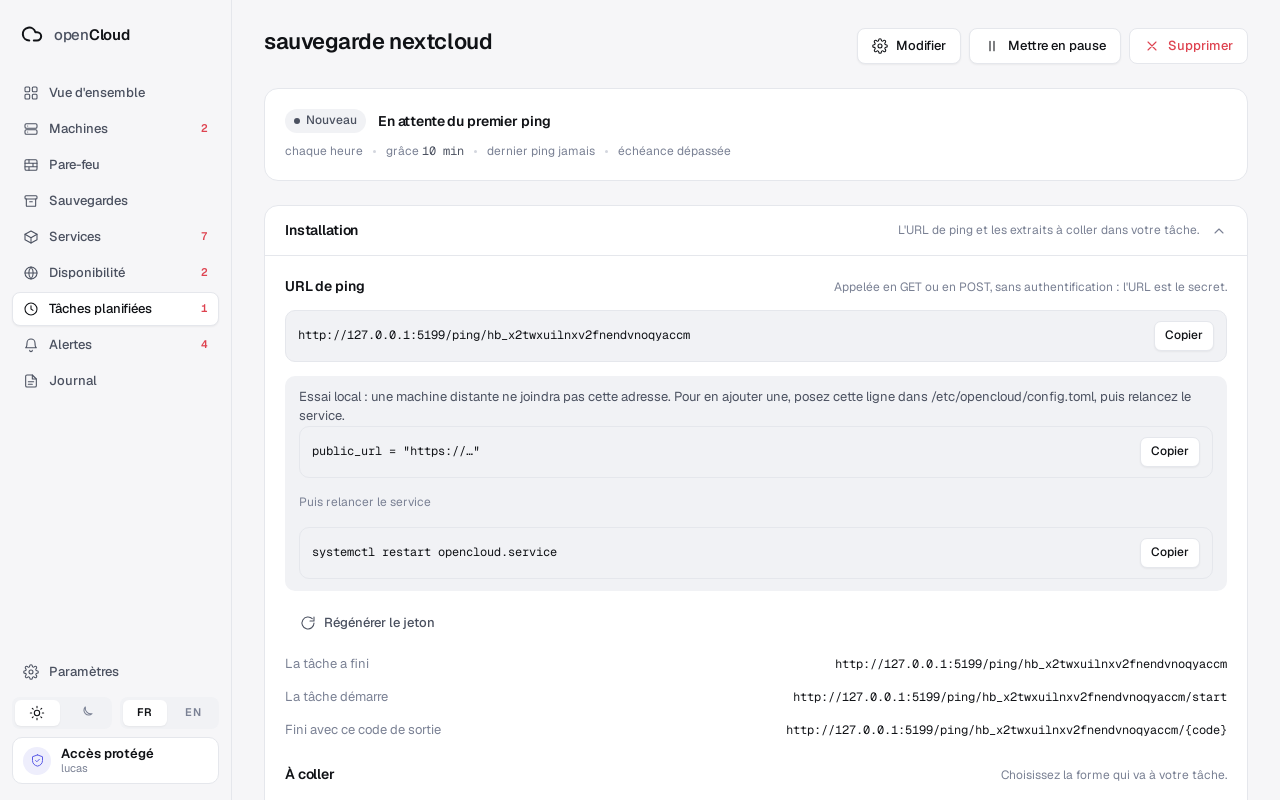
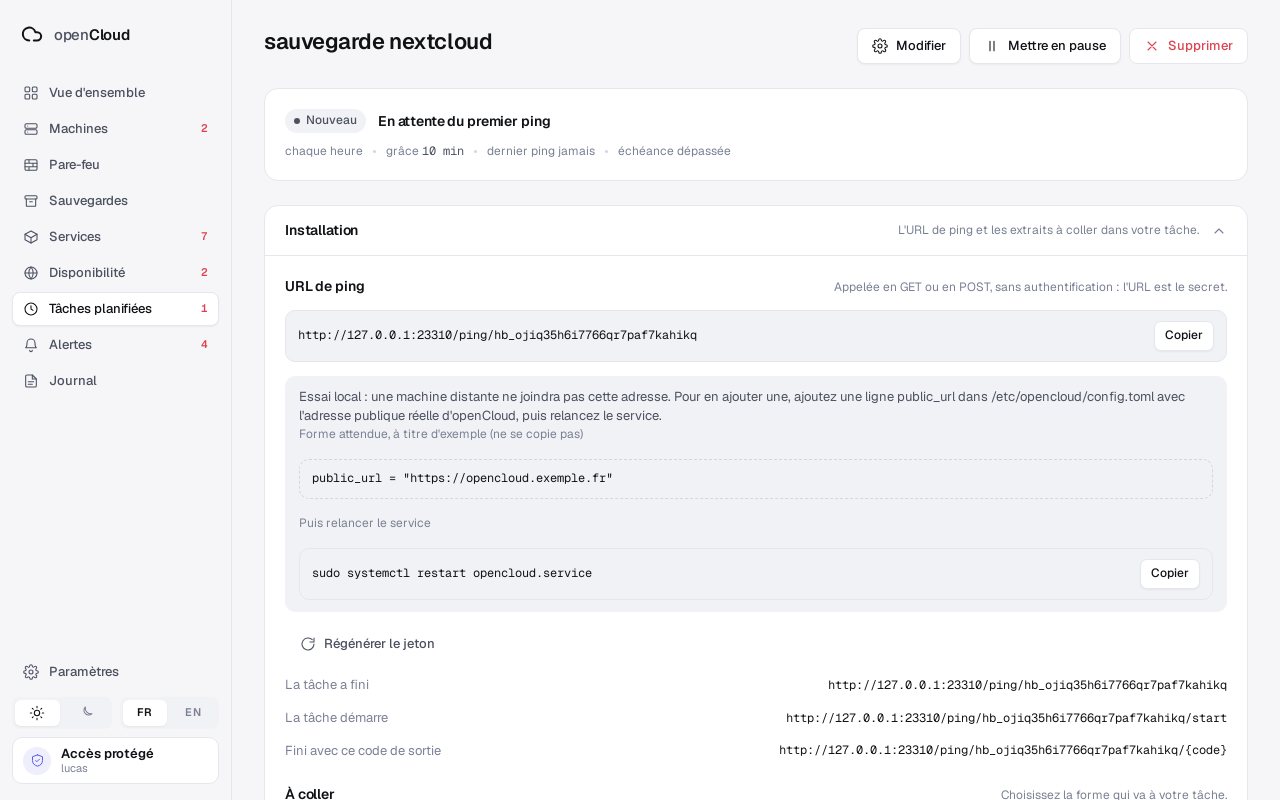
fix(e2e): un port par copie du dépôt, note locale sans ligne invalide à copier, édition e2e des assistants d'un écran
Fait avec Claude

diff --git a/web/e2e/u3-assistants-courts.spec.ts b/web/e2e/u3-assistants-courts.spec.ts
@@ -1,4 +1,4 @@
-import type { Locator } from "@playwright/test";
+import type { Locator, Page } from "@playwright/test";
 
 import { label } from "./support/catalog";
 import { expect, test } from "./support/findings";
@@ -77,10 +77,13 @@ test("une tâche : un nom, un intervalle, Créer ; la note de l'adresse locale e
 
   // L'adresse du banc est locale : une note neutre, pas une alerte rouge.
   await expect(page).toHaveURL(/\/taches\/[^/]+$/);
-  const note = page.locator(".note-neutral", { hasText: label("public_url.local_note").replace("{config_path}", "/etc/opencloud/config.toml") });
+  const note = page.locator(".note-neutral", { hasText: label("public_url.example_label") });
   await expect(note).toBeVisible();
-  await expect(note.locator(".token-box").first()).toContainText('public_url = "https://…"');
-  await expect(note.locator(".token-box").nth(1)).toContainText(label("public_url.restart_command").replace("{server_unit}", "opencloud.service"));
+  // La forme attendue est un exemple : aucune ligne à copier, donc un seul bouton Copier, celui de la relance.
+  await expect(note.locator(".public-url-example")).toContainText('public_url = "https://opencloud.exemple.fr"');
+  await expect(note.getByRole("button", { name: label("machine.copy") })).toHaveCount(1);
+  await expect(note.locator(".token-box")).toHaveCount(1);
+  await expect(note.locator(".token-box")).toContainText("sudo systemctl restart opencloud.service");
   await expect(page.locator(".note-danger")).toHaveCount(0);
   expect(findings.unknown()).toEqual([]);
 });
@@ -147,5 +150,150 @@ test("un plan de sauvegarde : la source et la destination en un écran, le nombr
   await dialog.locator("details.fold summary").click();
   await expect(dialog.locator("#backup-plan-keep")).toBeVisible();
   await dialog.getByRole("button", { name: label("modal.cancel"), exact: true }).first().click();
+  expect(findings.unknown()).toEqual([]);
+});
+
+// L'édition de chaque assistant d'un écran, menée jusqu'à l'enregistrement :
+// les Réglages repliés s'ouvrent, un menu déroulant y choisit une option, puis
+// la fenêtre est rouverte pour relire ce qui a été gardé.
+const normalized = (text: string) => text.replace(/\s+/g, " ").trim();
+
+async function openSettings(dialog: Locator): Promise<void> {
+  await dialog.locator("details.fold > summary").first().click();
+}
+
+// Ouvre le menu, choisit une autre option que la courante (ou la seule qu'il y a)
+// et rend son premier mot, que le bouton du menu doit ensuite porter.
+async function chooseOther(page: Page, dialog: Locator, trigger: string): Promise<string> {
+  await dialog.locator(trigger).click();
+  const list = page.locator("[role=listbox]").last();
+  await expect(list).toBeVisible();
+  const usable = list.locator("[role=option]:not([aria-disabled=true])");
+  const other = usable.and(list.locator("[aria-selected=false]"));
+  const option = (await other.count()) > 0 ? other.first() : usable.first();
+  const chosen = normalized(await option.innerText()).split(" ")[0] ?? "";
+  await option.click();
+  await expect(list).toBeHidden();
+  return chosen;
+}
+
+async function hrefOfLink(page: Page, list: string, name: string): Promise<string> {
+  await page.goto(list);
+  const href = await page.locator("main a", { hasText: name }).first().getAttribute("href");
+  expect(href, `lien « ${name} » dans ${list}`).not.toBeNull();
+  return href ?? "";
+}
+
+test("modifier une sonde : service choisi dans un menu, seuil changé, relus après enregistrement", async ({ page, findings }) => {
+  const path = await hrefOfLink(page, "/disponibilite", "site essai u3 bis");
+  findings.where = `${path}/modifier`;
+  await page.goto(`${path}/modifier`);
+  const dialog = page.locator("dialog[open]");
+  await expectOneScreen(dialog, label("probe.save"));
+  await openSettings(dialog);
+  const service = await chooseOther(page, dialog, "#probe-service");
+  await dialog.locator("#probe-failure").fill("4");
+  await dialog.getByRole("button", { name: label("probe.save"), exact: true }).click();
+  await expect(page).toHaveURL(/\/disponibilite\/[^/]+$/);
+
+  await page.goto(`${path}/modifier`);
+  const again = page.locator("dialog[open]");
+  await openSettings(again);
+  await expect(again.locator("#probe-failure")).toHaveValue("4");
+  await expect(again.locator("#probe-service")).toContainText(service);
+  expect(findings.unknown()).toEqual([]);
+});
+
+test("modifier une tâche : machine choisie dans un menu, grâce changée, relues après enregistrement", async ({ page, findings }) => {
+  const path = await hrefOfLink(page, "/taches", "sauvegarde essai u3");
+  findings.where = `${path}/modifier`;
+  await page.goto(`${path}/modifier`);
+  const dialog = page.locator("dialog[open]");
+  await expectOneScreen(dialog, label("job.save"));
+  await openSettings(dialog);
+  const machine = await chooseOther(page, dialog, "#job-machine");
+  await dialog.locator("#job-grace").fill("20");
+  await dialog.getByRole("button", { name: label("job.save"), exact: true }).click();
+  await expect(page).toHaveURL(/\/taches\/[^/]+$/);
+
+  await page.goto(`${path}/modifier`);
+  const again = page.locator("dialog[open]");
+  await openSettings(again);
+  await expect(again.locator("#job-grace")).toHaveValue("20");
+  await expect(again.locator("#job-machine")).toContainText(machine);
+  expect(findings.unknown()).toEqual([]);
+});
+
+test("modifier un canal : gravité choisie dans un menu, nom changé, relus après enregistrement", async ({ page, findings }) => {
+  const path = await hrefOfLink(page, "/parametres", "salon essai u3");
+  findings.where = path;
+  await page.goto(path);
+  const dialog = page.locator("dialog[open]");
+  await expectOneScreen(dialog, label("channel.save"));
+  await dialog.locator("#channel-name").fill("salon essai u3 bis");
+  await openSettings(dialog);
+  const severity = await chooseOther(page, dialog, "#channel-severity");
+  await dialog.getByRole("button", { name: label("channel.save"), exact: true }).click();
+  await expect(page).toHaveURL(/\/parametres$/);
+
+  await page.goto(path);
+  const again = page.locator("dialog[open]");
+  await expect(again.locator("#channel-name")).toHaveValue("salon essai u3 bis");
+  await openSettings(again);
+  await expect(again.locator("#channel-severity")).toContainText(severity);
+  expect(findings.unknown()).toEqual([]);
+});
+
+test("un silence : type choisi dans un menu et motif sous Réglages, relus dans la liste", async ({ page, findings }) => {
+  findings.where = "/parametres/silences/nouveau";
+  await page.goto("/parametres/silences/nouveau");
+  const dialog = page.locator("dialog[open]");
+  await openSettings(dialog);
+  const kind = await chooseOther(page, dialog, "#silence-kind");
+  await dialog.locator("#silence-reason").fill("relecture u3");
+  await expect(dialog.locator(":scope details.fold > summary .fold-hint").first()).not.toContainText(label("silence.hint_kind_any"));
+  await dialog.getByRole("button", { name: label("silence.create"), exact: true }).click();
+  await expect(page).toHaveURL(/\/parametres$/);
+  const row = page.locator("tr", { hasText: "relecture u3" });
+  await expect(row).toBeVisible();
+  await expect(row).toContainText(kind);
+  expect(findings.unknown()).toEqual([]);
+});
+
+test("modifier un projet : titre changé, relu après enregistrement, page publique gardée", async ({ page, findings }) => {
+  const path = await hrefOfLink(page, "/services/projets", "projet-essai-u3");
+  findings.where = path;
+  await page.goto(path);
+  const dialog = page.locator("dialog[open]");
+  await expectOneScreen(dialog, label("project.save"));
+  await dialog.locator("#project-title").fill("Titre relu u3");
+  await dialog.getByRole("button", { name: label("project.save"), exact: true }).click();
+  await expect(page).toHaveURL(/\/services\/projets$/);
+
+  await page.goto(path);
+  const again = page.locator("dialog[open]");
+  await expect(again.locator("#project-title")).toHaveValue("Titre relu u3");
+  await expect(again.locator("#project-slug")).toBeVisible();
+  expect(findings.unknown()).toEqual([]);
+});
+
+test("modifier un plan : destination choisie dans un menu, nombre gardé changé, relus après enregistrement", async ({ page, findings }) => {
+  findings.where = "/sauvegardes/plans/database/modifier";
+  await page.goto("/sauvegardes/plans/database/modifier");
+  const dialog = page.locator("dialog[open]");
+  await expectOneScreen(dialog, label("backup.plan_save"));
+  const destination = await chooseOther(page, dialog, "#backup-plan-destination");
+  await openSettings(dialog);
+  await dialog.locator("#backup-plan-name").fill("base essai u3");
+  await dialog.locator("#backup-plan-keep").fill("7");
+  await dialog.getByRole("button", { name: label("backup.plan_save"), exact: true }).click();
+  await expect(page).toHaveURL(/\/sauvegardes$/);
+
+  await page.goto("/sauvegardes/plans/database/modifier");
+  const again = page.locator("dialog[open]");
+  await expect(again.locator("#backup-plan-destination")).toContainText(destination);
+  await openSettings(again);
+  await expect(again.locator("#backup-plan-keep")).toHaveValue("7");
+  await expect(again.locator("#backup-plan-name")).toHaveValue("base essai u3");
   expect(findings.unknown()).toEqual([]);
 });

diff --git a/web/src/components/PublicUrlNote.test.tsx b/web/src/components/PublicUrlNote.test.tsx
@@ -9,18 +9,27 @@ test("une adresse publique ne dit rien", () => {
   expect(renderToStaticMarkup(<PublicUrlNote local={false} suggestion="" />)).toBe("");
 });
 
-test("un essai local : note neutre, la ligne à poser et le redémarrage", () => {
+test("un essai local sans suggestion : la forme attendue en exemple, aucun bouton Copier sur la ligne exemple", () => {
   const markup = renderToStaticMarkup(<PublicUrlNote local suggestion="" />);
   expect(markup).toContain("note-neutral");
   expect(markup).not.toContain("note-danger");
   expect(markup).toContain("public_url.local_note");
-  expect(markup).toContain("public_url = &quot;https://…&quot;");
+  expect(markup).toContain("public_url.example_label");
+  expect(markup).toContain("public_url.example_line");
+  // La ligne exemple n'est pas une boîte à copier ; seule la commande de relance l'est.
+  expect(markup.match(/token-box/g)).toHaveLength(1);
+  expect(markup.match(/machine\.copy/g)).toHaveLength(1);
   expect(markup).toContain("public_url.restart_command");
+  // Aucune ligne invalide offerte à la copie.
+  expect(markup).not.toContain("https://…");
 });
 
-test("une page publique avec une adresse locale : rouge, la ligne porte l'adresse de la page", () => {
+test("une page publique avec une adresse locale : rouge, la ligne à copier porte l'adresse de la page", () => {
   const markup = renderToStaticMarkup(<PublicUrlNote local suggestion="https://cloud.exemple.fr" />);
   expect(markup).toContain("note-danger");
   expect(markup).toContain("public_url.mismatch_note");
   expect(markup).toContain("public_url = &quot;https://cloud.exemple.fr&quot;");
+  expect(markup).not.toContain("public_url.example_line");
+  // La ligne et la commande de relance se copient : deux boutons.
+  expect(markup.match(/machine\.copy/g)).toHaveLength(2);
 });

diff --git a/web/e2e/playwright.config.ts b/web/e2e/playwright.config.ts
@@ -1,10 +1,23 @@
+import { createHash } from "node:crypto";
+
 import { defineConfig } from "@playwright/test";
+
+// Un port par copie du dépôt : plusieurs copies de travail (une par chantier)
+// lancent le parcours sur la même machine, et un port commun les faisait
+// s'arrêter les unes les autres (le serveur de l'une recevait l'arrêt de l'autre,
+// le parcours finissait en ECONNREFUSED). Le chemin de la copie fixe le port,
+// entre 20000 et 31999, sous les ports éphémères de Linux ; deux copies ne le partagent qu'en cas de collision de
+// hachage, et Playwright refuse alors de démarrer au lieu de tuer l'autre.
+function portOfCheckout(): number {
+  const digest = createHash("sha256").update(process.cwd()).digest();
+  return 20000 + (digest.readUInt16BE(0) % 12000);
+}
 
 // Le serveur de données fictives est le test Go TestE2EFixtureServer, compilé
 // par `make e2e` en .fixture.test : le vrai serveur, sa vraie base, l'horloge
 // figée, rien de réel.
-// OPENCLOUD_E2E_ADDR change le port quand un autre chantier occupe déjà celui-ci.
-const address = process.env.OPENCLOUD_E2E_ADDR ?? "127.0.0.1:5199";
+// OPENCLOUD_E2E_ADDR impose l'adresse.
+const address = process.env.OPENCLOUD_E2E_ADDR ?? `127.0.0.1:${portOfCheckout()}`;
 
 export default defineConfig({
   testDir: ".",
@@ -31,7 +44,8 @@ export default defineConfig({
     reuseExistingServer: false,
     timeout: 60_000,
     // Les journaux du serveur noieraient le rapport ; en cas d'échec de démarrage, le délai le dit.
-    stdout: "ignore",
-    stderr: "ignore",
+    // E2E_SERVER_LOGS=1 les laisse passer : sans elles, un serveur mort ne dit pas pourquoi.
+    stdout: process.env.E2E_SERVER_LOGS === "1" ? "pipe" : "ignore",
+    stderr: process.env.E2E_SERVER_LOGS === "1" ? "pipe" : "ignore",
   },
 });

diff --git a/web/src/components/PublicUrlNote.tsx b/web/src/components/PublicUrlNote.tsx
@@ -4,9 +4,12 @@ import { TokenBox } from "./Copy";
 
 // Ce que dit un écran qui écrit une adresse d'{product} (commande d'une
 // machine, URL de ping) quand cette adresse paraît locale. Un essai local
-// est prévu : la note est neutre et donne la ligne à poser. Elle ne vire au
-// rouge que si la page, elle, est publique (suggestion non vide) : c'est un
-// public_url mal réglé, et la ligne porte alors l'adresse de la page.
+// est prévu : la note est neutre. Elle ne vire au rouge que si la page, elle,
+// est publique (suggestion non vide) : c'est un public_url mal réglé, et la
+// ligne à copier porte l'adresse de la page.
+// Sans suggestion, l'adresse publique n'est pas connue : aucune ligne n'est à
+// copier (collée telle quelle, une adresse inventée casserait la configuration),
+// seulement la forme attendue, en exemple.
 export function PublicUrlNote({ local, suggestion }: { local: boolean; suggestion: string }) {
   const t = useT();
   if (!local) {
@@ -17,7 +20,14 @@ export function PublicUrlNote({ local, suggestion }: { local: boolean; suggestio
     <Note tone={mismatch ? "danger" : "neutral"}>
       <p>{t(mismatch ? "public_url.mismatch_note" : "public_url.local_note")}</p>
       <div className="stack">
-        <TokenBox value={`public_url = "${mismatch ? suggestion : "https://…"}"`} />
+        {mismatch ? (
+          <TokenBox value={`public_url = "${suggestion}"`} />
+        ) : (
+          <>
+            <span className="secondary">{t("public_url.example_label")}</span>
+            <code className="mono public-url-example">{t("public_url.example_line")}</code>
+          </>
+        )}
         <span className="secondary">{t("public_url.restart_label")}</span>
         <TokenBox value={t("public_url.restart_command")} />
       </div>

diff --git a/web/src/components/Card.scss b/web/src/components/Card.scss
@@ -302,3 +302,14 @@ a.stat-link {
     border-color: var(--line-strong);
   }
 }
+
+// Un exemple qui ne se copie pas : la même boîte qu'une ligne à copier, sans bouton.
+.public-url-example {
+  display: block;
+  padding: 10px 12px;
+  border-radius: 10px;
+  border: 1px dashed var(--line-strong);
+  background: var(--surface-2);
+  color: var(--ink);
+  overflow-wrap: anywhere;
+}

diff --git a/internal/lang/lang.go b/internal/lang/lang.go
@@ -117,6 +117,7 @@ var placeholders = strings.NewReplacer(
 	"{label_prefix}", brand.LabelPrefix,
 	"{config_path}", brand.ConfigPath,
 	"{server_unit}", brand.ServerUnit,
+	"{example_url}", "https://"+brand.ID+".exemple.fr",
 	"{agent_unit}", brand.AgentUnit,
 	"{agent_account}", brand.AgentAccount,
 	"{agent_binary}", brand.AgentCurrentPath,

diff --git a/docs/installation.md b/docs/installation.md
@@ -311,11 +311,12 @@ Elle sert à deux choses.
    requête (et de `X-Forwarded-Host` / `-Proto` d'un mandataire de
    confiance). Si l'adresse paraît locale, la page du jeton et celle de la
    tâche posent une **note neutre** avec la ligne à écrire :
-   `public_url = "https://…"` dans `/etc/opencloud/config.toml`, puis
-   `systemctl restart opencloud.service`. Un essai local n'est pas une
-   erreur. La note ne devient **rouge** que si la page est lue par une adresse
-   publique alors que `public_url` est locale : la ligne porte alors
-   l'adresse de la page.
+   la forme attendue en exemple (`public_url = "https://opencloud.exemple.fr"`,
+   non copiable : l'adresse publique réelle est à mettre dans
+   `/etc/opencloud/config.toml`), puis `sudo systemctl restart
+   opencloud.service`. Un essai local n'est pas une erreur. La note ne devient **rouge** que si la page est lue par une adresse
+   publique alors que `public_url` est locale : la ligne, cette fois à
+   copier, porte l'adresse de la page.
 2. **Reconnaître le nom de l'interface.** Toute requête sur `/api/…` doit
    arriver avec un `Host` connu : l'hôte de
    `public_url`, `localhost`, une adresse IP, ou l'hôte de `listen`.

diff --git a/docs/projet/22-fonctionnement.md b/docs/projet/22-fonctionnement.md
@@ -4627,10 +4627,12 @@ la commande d'une machine s'écrivent depuis `public_url`, ou à défaut depuis
 l'adresse de la requête. Si elle paraît locale, `url_local` est vrai ; la
 réponse porte aussi `url_suggestion`, l'adresse de la page **quand celle-ci est
 publique**, vide sinon. L'écran (`PublicUrlNote`) en tire deux notes : un essai
-local (page locale) est une **note neutre** avec la ligne à poser,
-`public_url = "https://…"` dans le fichier de configuration, puis le
-redémarrage du service ; une page publique avec un `public_url` local est
-**rouge**, et la ligne porte l'adresse de la page.
+local (page locale) est une **note neutre** : l'adresse publique réelle
+n'est pas connue, donc la forme attendue n'est qu'un **exemple non copiable**
+(`public_url = "https://opencloud.exemple.fr"`), puis la relance du service
+(`sudo systemctl restart opencloud.service`, qui se copie) ; une page publique
+avec un `public_url` local est **rouge**, et la ligne, à copier, porte
+l'adresse de la page.
 
 **Les derniers formulaires** (refonte UX, C11) : plus aucune page de
 formulaire. Le pare-feu est un `Wizard` dans une `Modal`
